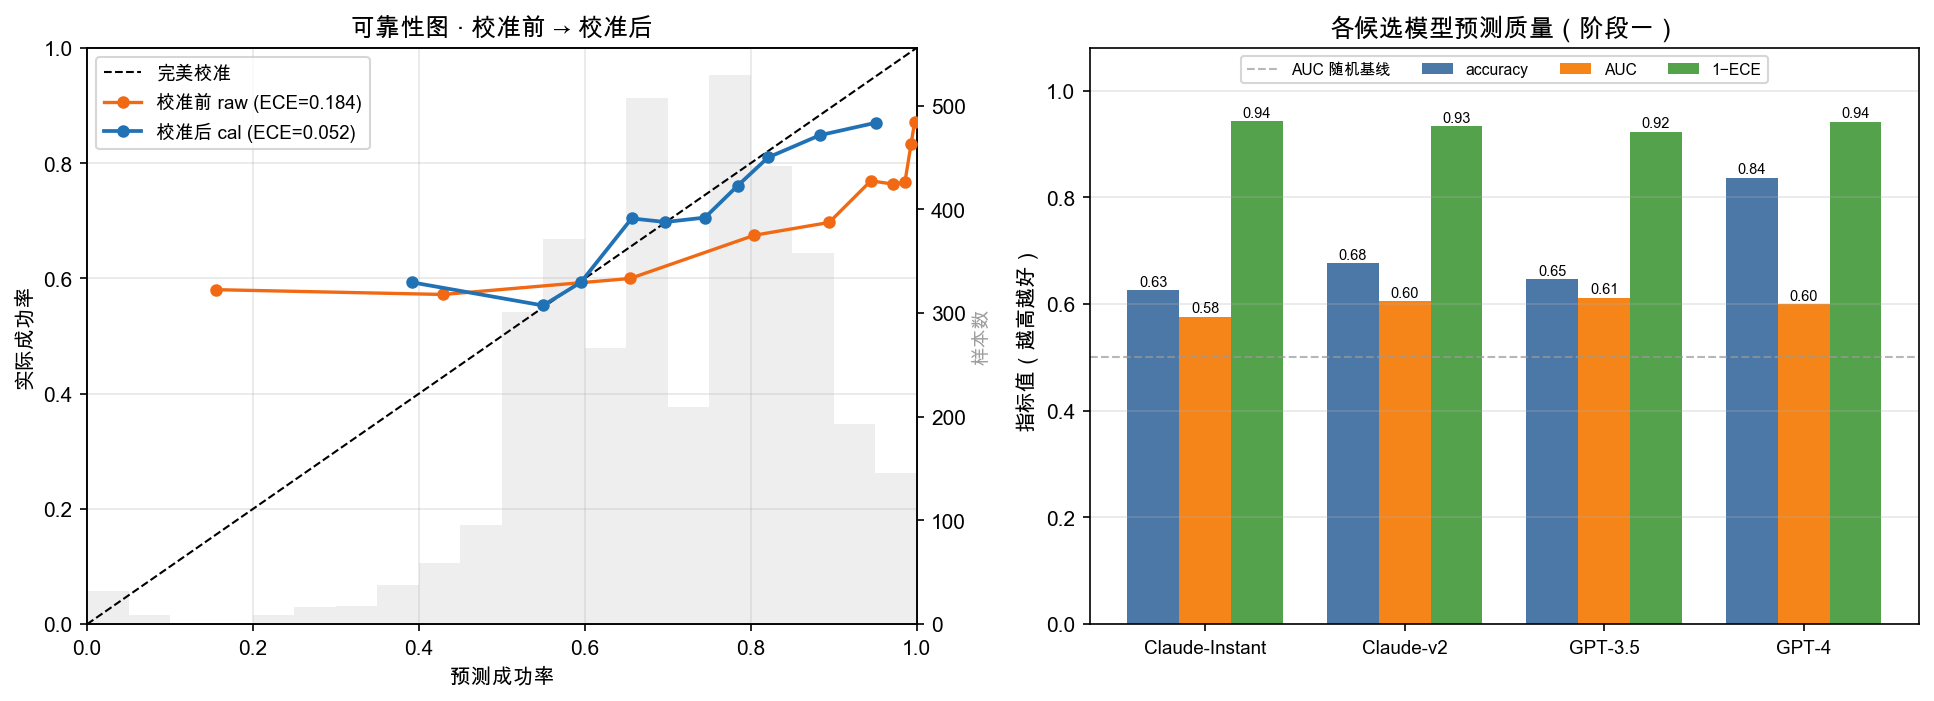
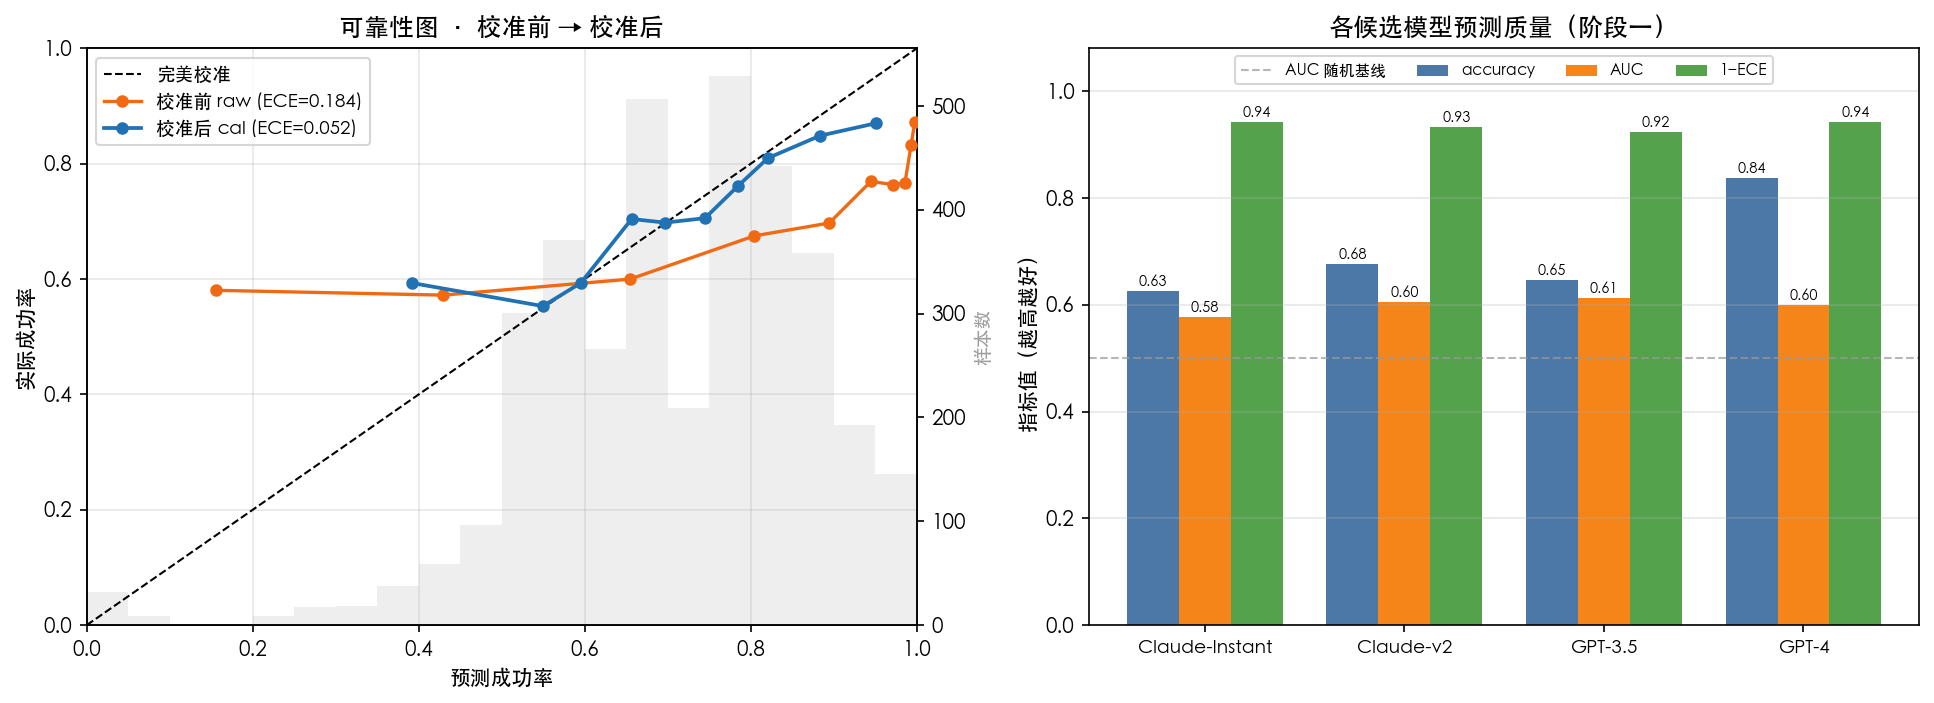
fix: 失败归因图修复中文字体显示
新增 scripts/plot_utils.py 统一配置 CJK 字体；failure_analysis 出图前加载字体并重新生成 images/failure_attribution.png。

diff --git a/eval/failure_analysis.py b/eval/failure_analysis.py
@@ -30,6 +30,11 @@ sys.path.insert(0, str(ROOT))
 
 from model import milp as mp  # noqa: E402
 
+try:
+    from scripts.plot_utils import setup_chinese_font
+except ImportError:
+    from plot_utils import setup_chinese_font  # type: ignore[no-redef]
+
 
 def _oracle_choice(mats: mp.RoutingMatrices) -> np.ndarray:
     choice = np.empty(len(mats.queries), dtype=int)
@@ -146,12 +151,17 @@ def analyze_routing_failures(
     return badcase.head(max_rows), summary, metrics
 
 
-def plot_failure_summary(summary: pd.DataFrame, ax=None):
-    """归因计数条形图。"""
+def plot_failure_summary(summary: pd.DataFrame, ax=None, use_chinese: bool | None = None):
+    """归因计数条形图。use_chinese=None 时自动检测系统字体。"""
+    if use_chinese is None:
+        use_chinese = setup_chinese_font() is not None
+    elif use_chinese:
+        setup_chinese_font()
+
     if ax is None:
         _, ax = plt.subplots(figsize=(6, 3.5))
     if summary.empty:
-        ax.set_title("无失败样本")
+        ax.set_title("无失败样本" if use_chinese else "No failures")
         return ax
     order = ["prediction_error", "calibration_error", "budget_binding", "task_hard", "label_noise"]
     colors = {
@@ -161,20 +171,28 @@ def plot_failure_summary(summary: pd.DataFrame, ax=None):
         "task_hard": "#9e9e9e",
         "label_noise": "#b279a2",
     }
-    labels = {
+    labels_zh = {
         "prediction_error": "预测排序错",
         "calibration_error": "校准/概率误导",
         "budget_binding": "预算太紧",
         "task_hard": "任务本身难",
         "label_noise": "边界/存疑",
     }
+    labels_en = {
+        "prediction_error": "Pred rank err",
+        "calibration_error": "Calib / prob",
+        "budget_binding": "Budget tight",
+        "task_hard": "Task hard",
+        "label_noise": "Borderline",
+    }
+    labels = labels_zh if use_chinese else labels_en
     s = summary.set_index("failure_tag").reindex(order).fillna(0)
     x = np.arange(len(order))
     ax.bar(x, s["count"], color=[colors.get(k, "#ccc") for k in order])
     ax.set_xticks(x)
     ax.set_xticklabels([labels.get(k, k) for k in order], rotation=15, ha="right")
-    ax.set_ylabel("失败条数")
-    ax.set_title("MILP 失败样本归因分布")
+    ax.set_ylabel("失败条数" if use_chinese else "Failures")
+    ax.set_title("MILP 失败样本归因分布" if use_chinese else "MILP Failure Attribution")
     for xi, v in zip(x, s["count"]):
         if v > 0:
             ax.text(xi, v + 0.5, str(int(v)), ha="center", fontsize=8)
@@ -220,8 +238,12 @@ def main() -> None:
     print("\n归因计数:\n", summary.to_string(index=False))
     print("\nBadcase 样例:\n", badcase.head(10).to_string(index=False))
 
+    font = setup_chinese_font()
+    if font:
+        print(f"matplotlib 中文字体: {font}")
+
     fig, ax = plt.subplots(figsize=(6.5, 3.8))
-    plot_failure_summary(summary, ax=ax)
+    plot_failure_summary(summary, ax=ax, use_chinese=font is not None)
     fig.tight_layout()
     out_png = ROOT / "images" / "failure_attribution.png"
     out_png.parent.mkdir(parents=True, exist_ok=True)

diff --git a/scripts/plot_utils.py b/scripts/plot_utils.py
@@ -1,0 +1,32 @@
+"""Matplotlib 中文字体配置 — 供 eval/ 与 scripts/ 出图复用."""
+
+from __future__ import annotations
+
+import matplotlib.pyplot as plt
+from matplotlib import font_manager
+
+# macOS / Windows 常见中文字体，按优先级排列
+_CJK_FONT_CANDIDATES = [
+    "PingFang SC",
+    "Heiti SC",
+    "STHeiti",
+    "Arial Unicode MS",
+    "SimHei",
+    "Microsoft YaHei",
+    "Noto Sans CJK SC",
+    "Source Han Sans SC",
+    "WenQuanYi Micro Hei",
+    "DejaVu Sans",
+]
+
+
+def setup_chinese_font() -> str | None:
+    """配置 matplotlib 中文字体，返回实际使用的字体名；找不到则返回 None。"""
+    available = {f.name for f in font_manager.fontManager.ttflist}
+    for name in _CJK_FONT_CANDIDATES:
+        if name in available:
+            plt.rcParams["font.sans-serif"] = [name, "DejaVu Sans"]
+            plt.rcParams["axes.unicode_minus"] = False
+            return name
+    plt.rcParams["axes.unicode_minus"] = False
+    return None

diff --git a/scripts/plot_iteration_progress.py b/scripts/plot_iteration_progress.py
@@ -20,6 +20,7 @@ sys.path.insert(0, str(ROOT))
 
 from model import milp as mp  # noqa: E402
 from model import ml_seperate as ml  # noqa: E402
+from scripts.plot_utils import setup_chinese_font  # noqa: E402
 
 DEMO_BUDGET = 0.001
 OUT = ROOT / "images" / "pareto_iteration.png"
@@ -29,18 +30,6 @@ VERSIONS = [
     ("v2", "v2_TE_only", ROOT / "data" / "predictions_v2.parquet", "#6baed6"),
     ("v3", "v3_TE+cross+mglobal", ROOT / "data" / "predictions.parquet", "#08519c"),
 ]
-
-
-def setup_chinese_font() -> None:
-    plt.rcParams["font.sans-serif"] = [
-        "PingFang SC",
-        "Heiti SC",
-        "STHeiti",
-        "Arial Unicode MS",
-        "SimHei",
-        "DejaVu Sans",
-    ]
-    plt.rcParams["axes.unicode_minus"] = False
 
 
 def cpq(result, q: int) -> tuple[float, float]:

diff --git a/scripts/plot_calibration.py b/scripts/plot_calibration.py
@@ -11,25 +11,15 @@ matplotlib.use("Agg")
 import matplotlib.pyplot as plt
 import numpy as np
 import pandas as pd
-from matplotlib import font_manager
 from sklearn.calibration import calibration_curve
 
 ROOT = Path(__file__).resolve().parent.parent
 sys.path.insert(0, str(ROOT))
 
 from model import ml_seperate as ml  # noqa: E402
+from scripts.plot_utils import setup_chinese_font  # noqa: E402
 
 OUT = ROOT / "images" / "calibration.png"
-
-
-def setup_chinese_font() -> None:
-    candidates = ["PingFang SC", "Heiti SC", "STHeiti", "Arial Unicode MS", "SimHei", "Microsoft YaHei"]
-    available = {f.name for f in font_manager.fontManager.ttflist}
-    for name in candidates:
-        if name in available:
-            plt.rcParams["font.sans-serif"] = [name, "DejaVu Sans"]
-            break
-    plt.rcParams["axes.unicode_minus"] = False
 
 
 def overall_ece(y_true: np.ndarray, p: np.ndarray, n_bins: int = 10) -> float: